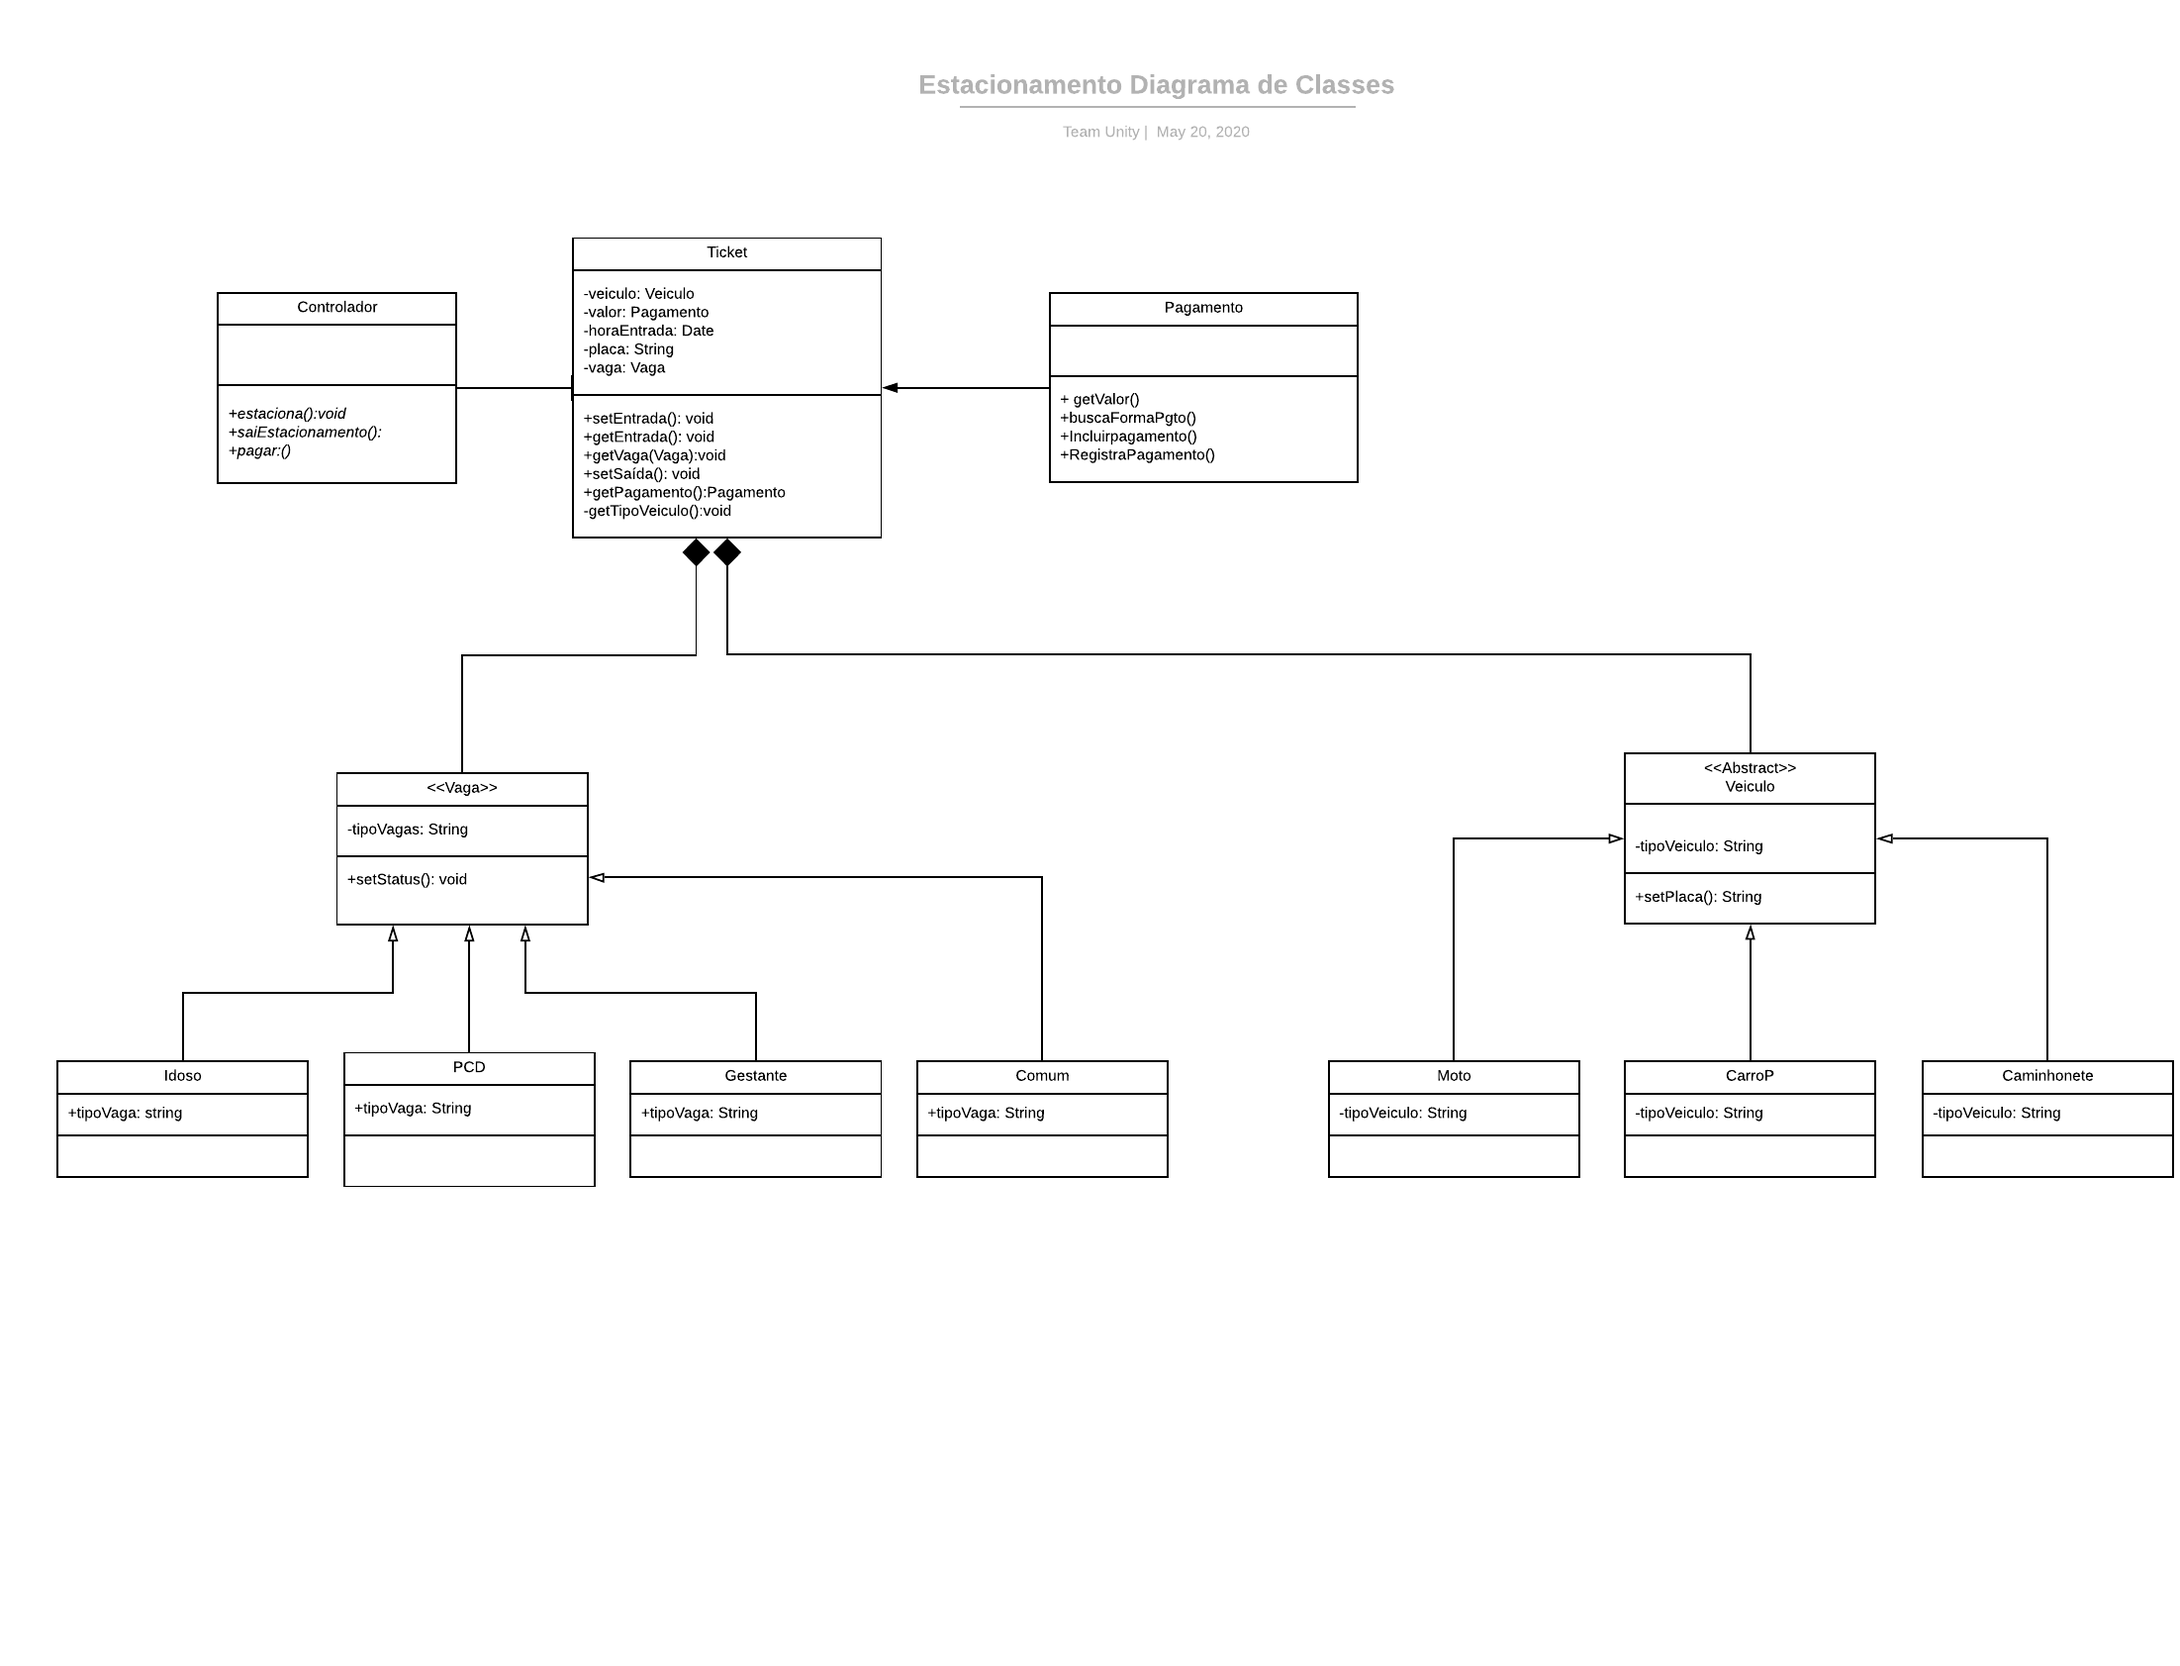
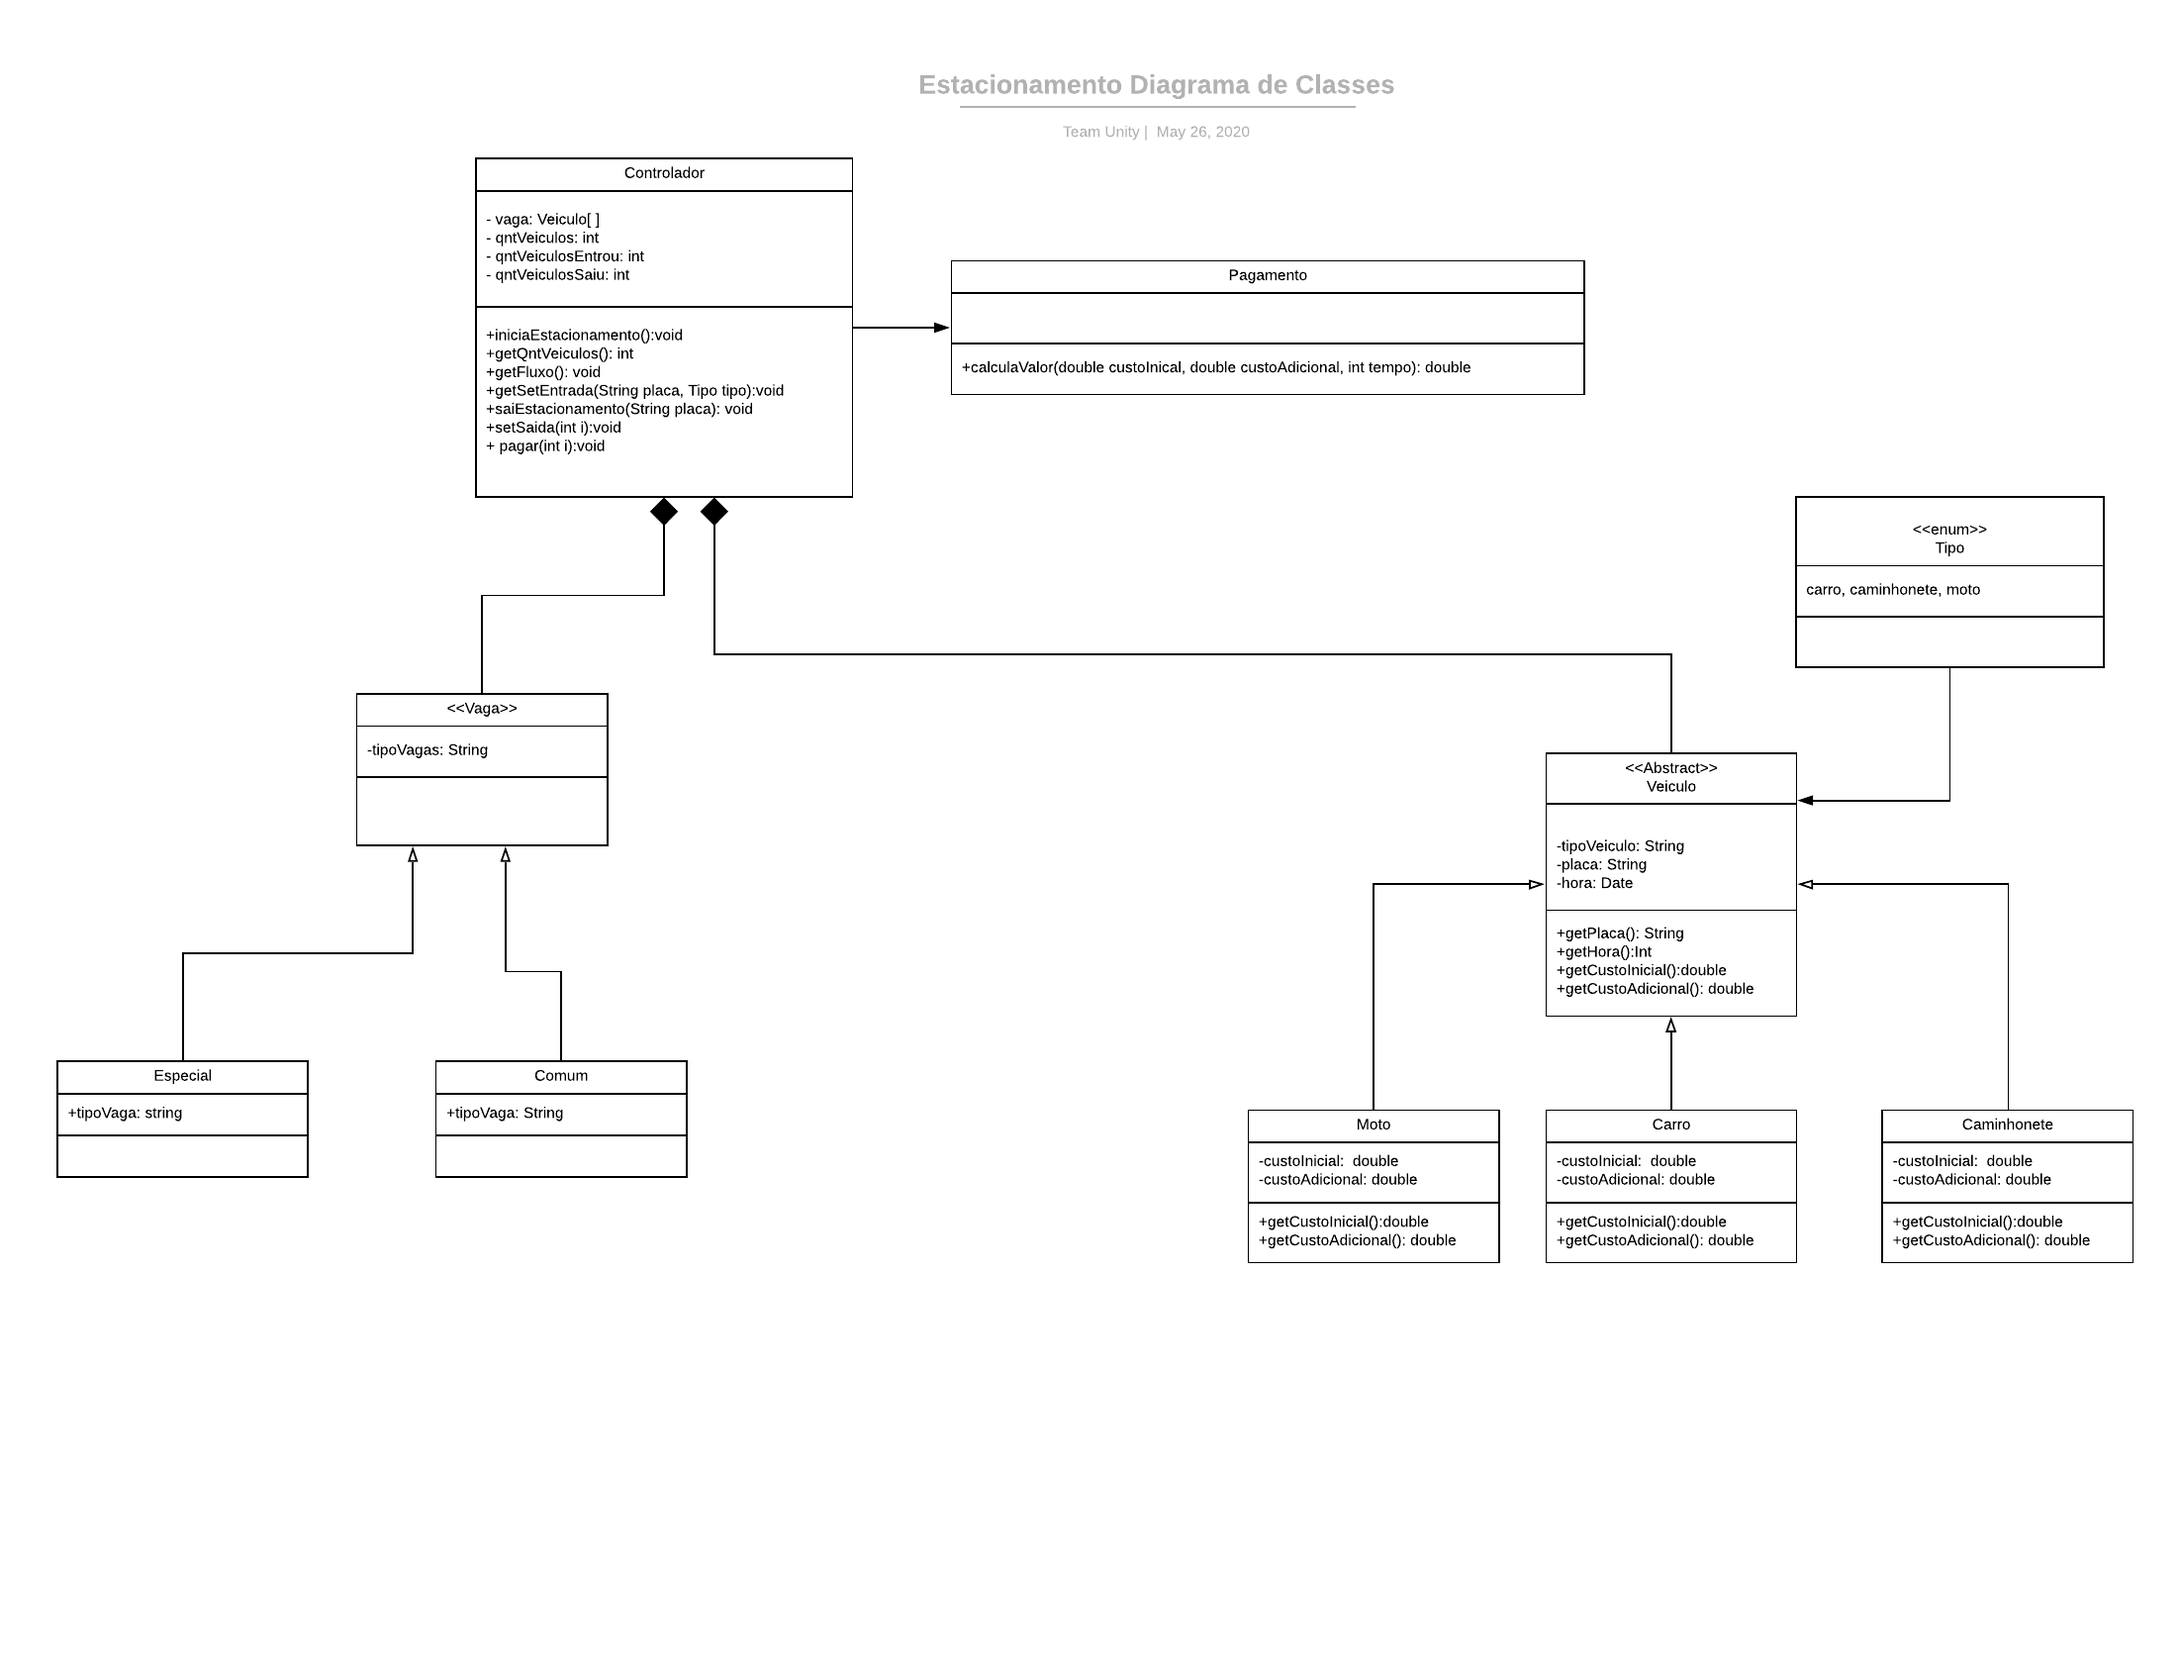
adicionada classe ticket e modificada as demais

diff --git a/src/Controlador.java b/src/Controlador.java
@@ -13,120 +13,8 @@ import java.util.Scanner;
 public class Controlador
 {
     Scanner scn = new Scanner(System.in);
-    public Veiculo[] vaga = new Veiculo[60];
-    int qntVeiculos =0;
-    int qntVeiculosEntrou =0;
-    int qntVeiculosSaiu = 0;
 
-    public int getQntVeiculos()
-    {
-        return qntVeiculos;
-    }
-
-    public void getfluxo()
-    {
-        System.out.println("Numeros de entradas: "+qntVeiculosEntrou+"\n" +
-                            " e o numero de saidas: "+ qntVeiculosSaiu);
-    }
-
-    public boolean setEntrada(String placa, Tipo tipo)
-    {
-        for(int i=0; i<vaga.length; i++)
-        {
-            if (tipo.equals(Tipo.Carro))
-            {
-                Veiculo carro = new Carro(placa, tipo.Carro);
-                if (vaga[i] == null)
-                {
-                    this.vaga[i] = carro;
-                    qntVeiculos = qntVeiculos + 1;
-                    qntVeiculosEntrou =qntVeiculosEntrou +1;
-                    return true;
-                }
-            }
-            if (tipo.equals(tipo.Caminhonete))
-            {
-                Veiculo caminhonete= new Caminhonete(placa, tipo.Caminhonete);
-                if (vaga[i] == null)
-                {
-                    this.vaga[i] = caminhonete;
-                    qntVeiculos = qntVeiculos + 1;
-                    qntVeiculosEntrou =qntVeiculos +1;
-                    return true;
-                }
-            }
-            else if (tipo.equals(tipo.Moto))
-            {
-                Veiculo moto= new Moto(placa, tipo.Moto);
-                if (vaga[i] == null)
-                {
-                    this.vaga[i] = moto;
-                    qntVeiculos = qntVeiculos + 1;
-                    qntVeiculosEntrou =qntVeiculos +1;
-                    return true;
-                }
-            }
-
-
-        }
-        return false;
-    }
-
-    public void saiEstacionamento(String placa)
-    {
-
-        for (int i=0; i<vaga.length;i++)
-        {
-            if (this.vaga[i]!=null)
-            {
-                if (placa.equals(this.vaga[i].getPlaca()))
-                {
-                    System.out.println("Saida de Veículo com placa " + this.vaga[i].getPlaca() + " registrada");
-                    pagar(i);
-                    setSaida(i);
-                }
-                else
-                {
-                    System.out.println("placa " + placa + " não encontrada.\n" +
-                            "digite a placa novamente");
-                    placa = scn.next();
-                    placa = placa.toLowerCase();
-                }
-            }
-        }
-    }
-
-
-    public void setSaida(int i)
-    {
-        this.vaga[i]= null;
-        qntVeiculos = qntVeiculos - 1;
-        qntVeiculosSaiu = qntVeiculosSaiu +1;
-    }
-
-
-    public void pagar(int i)
-    {
-        Date data = new Date();
-        if(this.vaga[i]!= null)
-        {
-            int horaAtual = data.getHours();
-            int tempo = horaAtual - this.vaga[i].getHora();
-            if(tempo <= 1 )
-            {
-                double custoHoraInicial = this.vaga[i].getCustoInicial();
-                System.out.println("valor a pagar: " + custoHoraInicial);
-            }
-            else
-            {
-                double custoHoraAdicional = this.vaga[i].getCustoAdicional();
-                double conta = Pagamento.calculaValor(this.vaga[i].getCustoInicial(), custoHoraAdicional, tempo);
-                System.out.println("valor a pagar: " + conta);
-            }
-        }
-    }
-
-    public void iniciaEstacionamento()
+        public void iniciaEstacionamento()
     {
 
         int escolha = 0;
@@ -160,7 +48,7 @@ public class Controlador
                                 String placa = scn.next();
                                 placa = placa.toLowerCase();
                                 Tipo tipo = Tipo.Carro;
-                                setEntrada(placa, tipo);
+                                Ticket.setEntrada(placa, tipo);
                                 System.out.println("entrada registrada");
                                 ret = 1;
                                 break;
@@ -171,7 +59,7 @@ public class Controlador
                                 String placa = scn.next();
                                 placa = placa.toLowerCase();
                                 Tipo tipo = Tipo.Caminhonete;
-                                setEntrada(placa, tipo);
+                                Ticket.setEntrada(placa, tipo);
                                 System.out.println("entrada registrada");
                                 ret = 1;
                                 break;
@@ -182,7 +70,7 @@ public class Controlador
                                 String placa = scn.next();
                                 Tipo tipo = Tipo.Moto;
                                 placa = placa.toLowerCase();
-                                setEntrada(placa, tipo);
+                                Ticket.setEntrada(placa, tipo);
                                 System.out.println("entrada registrada");
                                 ret = 1;
                                 break;
@@ -203,17 +91,17 @@ public class Controlador
                     System.out.println("Entre com a placa do veículo:");
                     String placa = scn.next();
                     placa = placa.toLowerCase();
-                    saiEstacionamento(placa);
+                    Ticket.saiEstacionamento(placa);
                     break;
                 }
                 case 3:
                 {
-                    System.out.println(getQntVeiculos());
+                    System.out.println(Vaga.getQntVeiculos());
                     break;
                 }
                 case 4:
                 {
-                    getfluxo();
+                    Vaga.getfluxo();
                     break;
                 }
                 case 99:

diff --git a/src/Vaga.java b/src/Vaga.java
@@ -2,4 +2,25 @@ public abstract class Vaga
 {
     public String tipoVaga;
 
+    private static int qntVeiculos =0;
+    private static int qntVeiculosEntrou =0;
+    private static int qntVeiculosSaiu = 0;
+
+    public static void setQntVeiculo(int qntVeiculosTicket, int qntVeiculosEntrouTicket, int qntVeiculosSaiuTicket) {
+        qntVeiculos = qntVeiculos+qntVeiculosTicket;
+        qntVeiculosEntrou = qntVeiculosEntrou+qntVeiculosEntrouTicket;
+        qntVeiculosSaiu = qntVeiculosSaiu+qntVeiculosSaiuTicket;
+        qntVeiculos = qntVeiculosSaiu - qntVeiculosSaiuTicket;
+    }
+    public static  int getQntVeiculos()
+    {
+        return qntVeiculos;
+    }
+
+    public static void getfluxo()
+    {
+        System.out.println("Numeros de entradas: "+qntVeiculosEntrou+"\n" +
+                " e o numero de saidas: "+ qntVeiculosSaiu);
+    }
+
 }

diff --git a/src/Pagamento.java b/src/Pagamento.java
@@ -1,11 +1,18 @@
+import java.util.Date;
+
 public class Pagamento
 {
+    public static double getCustoHoraInicial(double valor, int tempo){
 
-       public static double calculaValor(double custoInical, double custoadicional, int tempo)
+        double custo = valor;
+        return  custo;
+    }
+       public static double getCustoHoraAdicional(double custoInical, double custoadicional, int tempo)
        {
-            double valor = 0.00;
-              valor = (tempo - 1) * custoadicional + custoInical;
-               return valor ;
+
+            double custo;
+              custo = (tempo - 1) * custoadicional + custoInical;
+               return custo ;
        }
 
 }

diff --git a/src/Veiculo.java b/src/Veiculo.java
@@ -2,20 +2,20 @@ import java.util.Date;
 
 public abstract class Veiculo
 {
-	private Tipo tipoVeiculo;
+	private static Tipo tipoVeiculo;
 	private int hora;
 	private String placa;
 
 	public Veiculo(String placa, Tipo tipoVeiculo)
 	{
-		this.tipoVeiculo = tipoVeiculo;
+		tipoVeiculo = tipoVeiculo;
 		this.placa = placa;
 
 		Date date = new Date();
 		this.hora = date.getHours();
 
 	}
-	public Tipo getTipo()
+	public static Tipo getTipo()
 	{
 		return tipoVeiculo;
 	}
@@ -30,6 +30,9 @@ public abstract class Veiculo
 	}
 	public abstract double getCustoInicial();
 	public abstract double getCustoAdicional();
+	public static Tipo getInstance(){
+		return tipoVeiculo;
+	}
 }
 
 
